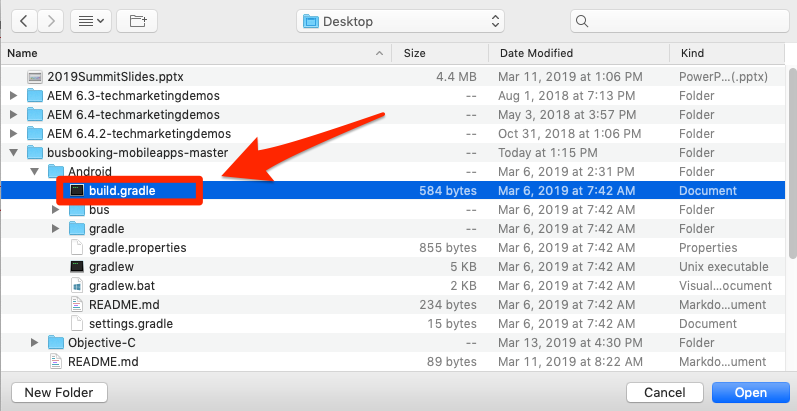
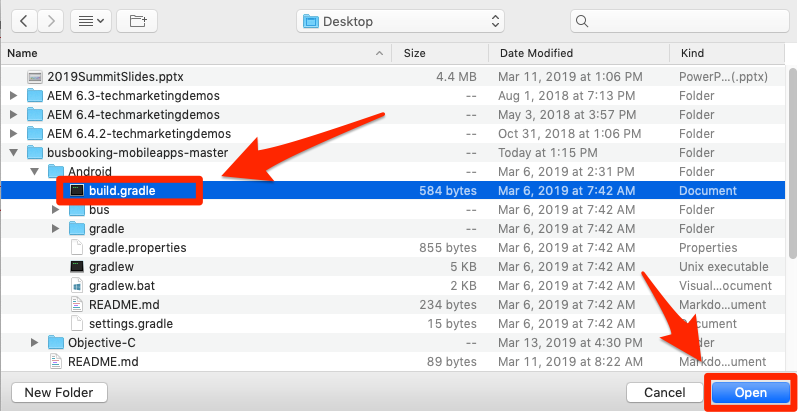
updates to images, install section, and target vec

diff --git a/help/mobile-android-implementation/launch-install-the-mobile-sdk.md b/help/mobile-android-implementation/launch-install-the-mobile-sdk.md
@@ -71,11 +71,13 @@ The Adobe Mobile SDK for Android uses Gradle to manage dependencies between its 
 
    ![Open Android > bus > build.gradle](images/android/mobile-launch-install-openGradle.png)
 
-1. In the Launch interface, make sure the operating system to `Android`
+1. In the Launch interface, make sure the operating system is set to `Android`
+
+1. Copy the dependencies to your clipboard, by clicking the ![Copy](images/mobile-launch-copyIcon.png) icon
 
    ![Copy dependencies to your clipboard in the Launch interface](images/android/mobile-launch-install-copyDependencies.png)
 
-1. In Android Studio, paste the dependencies from your clipboard right after the existing dependencies
+1. In Android Studio, paste the dependencies from your clipboard right after the existing dependencies (but before the closing `}`)
 1. Click the "Sync Now" link to sync the project
 
    ![Copy dependencies to your clipboard in the Launch interface](images/android/mobile-launch-install-pasteDependencies.png)
@@ -115,8 +117,6 @@ Now it's time to update the App to import the SDK
 1. In Android Studio, paste these extension statements into the `try` section. Note that `MobileCore.configureWithAppID` contains the identifier of the Launch development environment of your property. This is important, as you will need to update this value when we are ready to deploy the app to the production environment.
 
    ![Paste the Extension statements into your DemoApplication file](images/android/mobile-launch-install-pasteExtensions.png)
-
->[!IMPORTANT] During the Target VEC Beta, you may need to add "this" as an argument to `TargetVEC.registerExtension(this)`.
 
 ## Verify the implementation
 
@@ -158,11 +158,11 @@ Congratulations, you've added the SDK to a mobile app!
 
 ## Enable Lifecycle Metrics in the App
 
-Lifecycle metrics are environment-based metrics and dimensions that can be easily enabled in an app using the Experience Platform SDK. Since they can be used by several Experience Cloud solutions, we will enable them here, before we move into the individual solutions and how to add their code to your app. This is as simple as adding a couple lines of code to our app in the right place.
+Lifecycle metrics are environment-based metrics and dimensions that can be easily enabled in an app using the Experience Platform SDK. Since they can be used by multiple Experience Cloud solutions, we will enable them here, before we move deeper into the individual solutions. This is as simple as adding a couple lines of code to our app in the right place.
 
 ### Import the Core Library into the BusBookingActivity File
 
-In order to make API calls via the AEP SDK, you need to import the libraries into the appropriate files. In this case, to utilize the Lifecycle API call, we need to import the Core library.
+In order to make API calls via the Adobe Experience Platform Mobile SDK, you need to import the libraries into the appropriate files. In this case, to utilize the Lifecycle API call, we need to import the Core library.
 
 1. With your app open in Android Studio, open the BusBookingActivity file, which is in the same directory as the DemoApplication file that you've been working in.
 1. At the top of the file, add the following MobileCore import statement so that you can use the associated API calls
@@ -193,7 +193,7 @@ When you run your app, you should now get one or more Lifecycle messages in the 
 1. Do a search for `internalaction=Lifecycle`
 1. See that there are lines that include this key/value pair, as well as the other Lifecycle metrics.
 
-Note that lines you'll see are actually Analytics calls with Lifecycle metrics. We chose to put this validation of Lifecycle here in this section simply to keep the validation next to the setup. 
+Note that lines you'll see are actually Analytics calls with Lifecycle metrics.
 
 ![Validate Lifecycle](images/android/mobile-launch-install-validateLifecycle.png)
 

diff --git a/help/mobile-android-implementation/id-service.md b/help/mobile-android-implementation/id-service.md
@@ -10,7 +10,7 @@ solution: Experience Cloud
 
 The [Experience Cloud ID Service](https://marketing.adobe.com/resources/help/en_US/mcvid/) sets a common visitor id across all Adobe solutions in order to power Experience Cloud capabilities such as audience-sharing between solutions.  You can also send your own customer ids to the Service to enable cross-device targeting and integrations with your Customer Relationship Management (CRM) system.
 
-The ID Service is part of the Mobile Core extension, so you have already implemented it! At present time, this tutorial does not include instructions for setting Customer Ids. Please see the documentation for details on [how to set Customer Ids](https://aep-sdks.gitbook.io/docs/using-mobile-extensions/mobile-core/identity/identity-api-reference).
+The ID Service is part of the Mobile Core extension, ***so you have already implemented it when you installed the Mobile SDK***! At present time, this tutorial does not include instructions for setting Customer Ids. Please see the documentation for details on [how to set Customer Ids](https://aep-sdks.gitbook.io/docs/using-mobile-extensions/mobile-core/identity/identity-api-reference).
 
 ## Validation Steps
 

diff --git a/help/mobile-ios-objective-c-implementation/id-service.md b/help/mobile-ios-objective-c-implementation/id-service.md
@@ -10,7 +10,7 @@ solution: Experience Cloud
 
 The [Experience Cloud ID Service](https://marketing.adobe.com/resources/help/en_US/mcvid/) sets a common visitor id across all Adobe solutions in order to power Experience Cloud capabilities such as audience-sharing between solutions.  You can also send your own customer ids to the Service to enable cross-device targeting and integrations with your Customer Relationship Management (CRM) system.
 
-The ID Service is part of the Mobile Core extension, so you have already implemented it! At present time, this tutorial does not include instructions for setting Customer Ids. Please see the documentation for details on [how to set Customer Ids](https://aep-sdks.gitbook.io/docs/using-mobile-extensions/mobile-core/identity/identity-api-reference).
+The ID Service is part of the Mobile Core extension, ***so you have already implemented it when you installed the Mobile SDK***! At present time, this tutorial does not include instructions for setting Customer Ids. Please see the documentation for details on [how to set Customer Ids](https://aep-sdks.gitbook.io/docs/using-mobile-extensions/mobile-core/identity/identity-api-reference).
 
 ## Validation Steps
 

diff --git a/help/mobile-ios-swift-implementation/id-service.md b/help/mobile-ios-swift-implementation/id-service.md
@@ -10,7 +10,7 @@ solution: Experience Cloud
 
 The [Experience Cloud ID Service](https://marketing.adobe.com/resources/help/en_US/mcvid/) sets a common visitor id across all Adobe solutions in order to power Experience Cloud capabilities such as audience-sharing between solutions.  You can also send your own customer ids to the Service to enable cross-device targeting and integrations with your Customer Relationship Management (CRM) system.
 
-The ID Service is part of the Mobile Core extension, so you have already implemented it! At present time, this tutorial does not include instructions for setting Customer Ids. Please see the documentation for details on [how to set Customer Ids](https://aep-sdks.gitbook.io/docs/using-mobile-extensions/mobile-core/identity/identity-api-reference).
+The ID Service is part of the Mobile Core extension, ***so you have already implemented it when you installed the Mobile SDK***! At present time, this tutorial does not include instructions for setting Customer Ids. Please see the documentation for details on [how to set Customer Ids](https://aep-sdks.gitbook.io/docs/using-mobile-extensions/mobile-core/identity/identity-api-reference).
 
 ## Validation Steps
 

diff --git a/help/mobile-android-implementation/target-vec.md b/help/mobile-android-implementation/target-vec.md
@@ -16,9 +16,7 @@ The Visual Experience Composer (VEC) for Native Mobile Apps lets you create acti
 
 In the lesson [Add Extensions](launch-add-extensions.md), you added the Target VEC extension to your Launch property. In the lesson [Install the Mobile SDK](launch-install-the-mobile-sdk.md) you imported the extension into the sample application. Only a few minor updates are required to start setting up activities in Target's mobile visual experience composer!
 
->[!IMPORTANT] The Visual Experience Composer for mobile apps is currently in Beta and may not be available in your Target account. You are encouraged to evaluate its capabilities, but we do not recommend launching real activities in your production app at this time.
->
->Both the Target and Target VEC Launch extensions are required to use the Target VEC in your mobile application.
+>[!IMPORTANT] Both the Target and Target VEC Launch extensions are required to use the Target VEC in your mobile application.
 
 ## Learning Objectives
 

diff --git a/help/mobile-ios-swift-implementation/target-vec.md b/help/mobile-ios-swift-implementation/target-vec.md
@@ -16,9 +16,7 @@ The Visual Experience Composer (VEC) for Native Mobile Apps lets you create acti
 
 In the lesson [Add Extensions](launch-add-extensions.md), you added the Target VEC extension to your Launch property. In the lesson [Install the Mobile SDK](launch-install-the-mobile-sdk.md) you imported the extension into the sample application. Only a few minor updates are required to start setting up activities in Target's mobile visual experience composer!
 
->[!WARNING] The Visual Experience Composer for mobile apps is currently in Beta and may not be available in your Target account. You are encouraged to evaluate its capabilities, but we do not recommend launching real activities in your production app at this time.
->
-> Both the Target and Target VEC Launch extensions are required to use the Target VEC in your mobile application.
+>[!WARNING]  Both the Target and Target VEC Launch extensions are required to use the Target VEC in your mobile application.
 
 ## Learning Objectives
 

diff --git a/help/mobile-ios-objective-c-implementation/target-vec.md b/help/mobile-ios-objective-c-implementation/target-vec.md
@@ -16,9 +16,7 @@ The Visual Experience Composer (VEC) for Native Mobile Apps lets you create acti
 
 In the lesson [Add Extensions](launch-add-extensions.md), you added the Target VEC extension to your Launch property. In the lesson [Install the Mobile SDK](launch-install-the-mobile-sdk.md) you imported the extension into the sample application. Only a few minor updates are required to start setting up activities in Target's mobile visual experience composer!
 
->[!WARNING] The Visual Experience Composer for mobile apps is currently in Beta and may not be available in your Target account. You are encouraged to evaluate its capabilities, but we do not recommend launching real activities in your production app at this time.
->
->Both the Target and Target VEC Launch extensions are required to use the Target VEC in your mobile application.
+>[!WARNING] Both the Target and Target VEC Launch extensions are required to use the Target VEC in your mobile application.
 
 ## Learning Objectives
 
